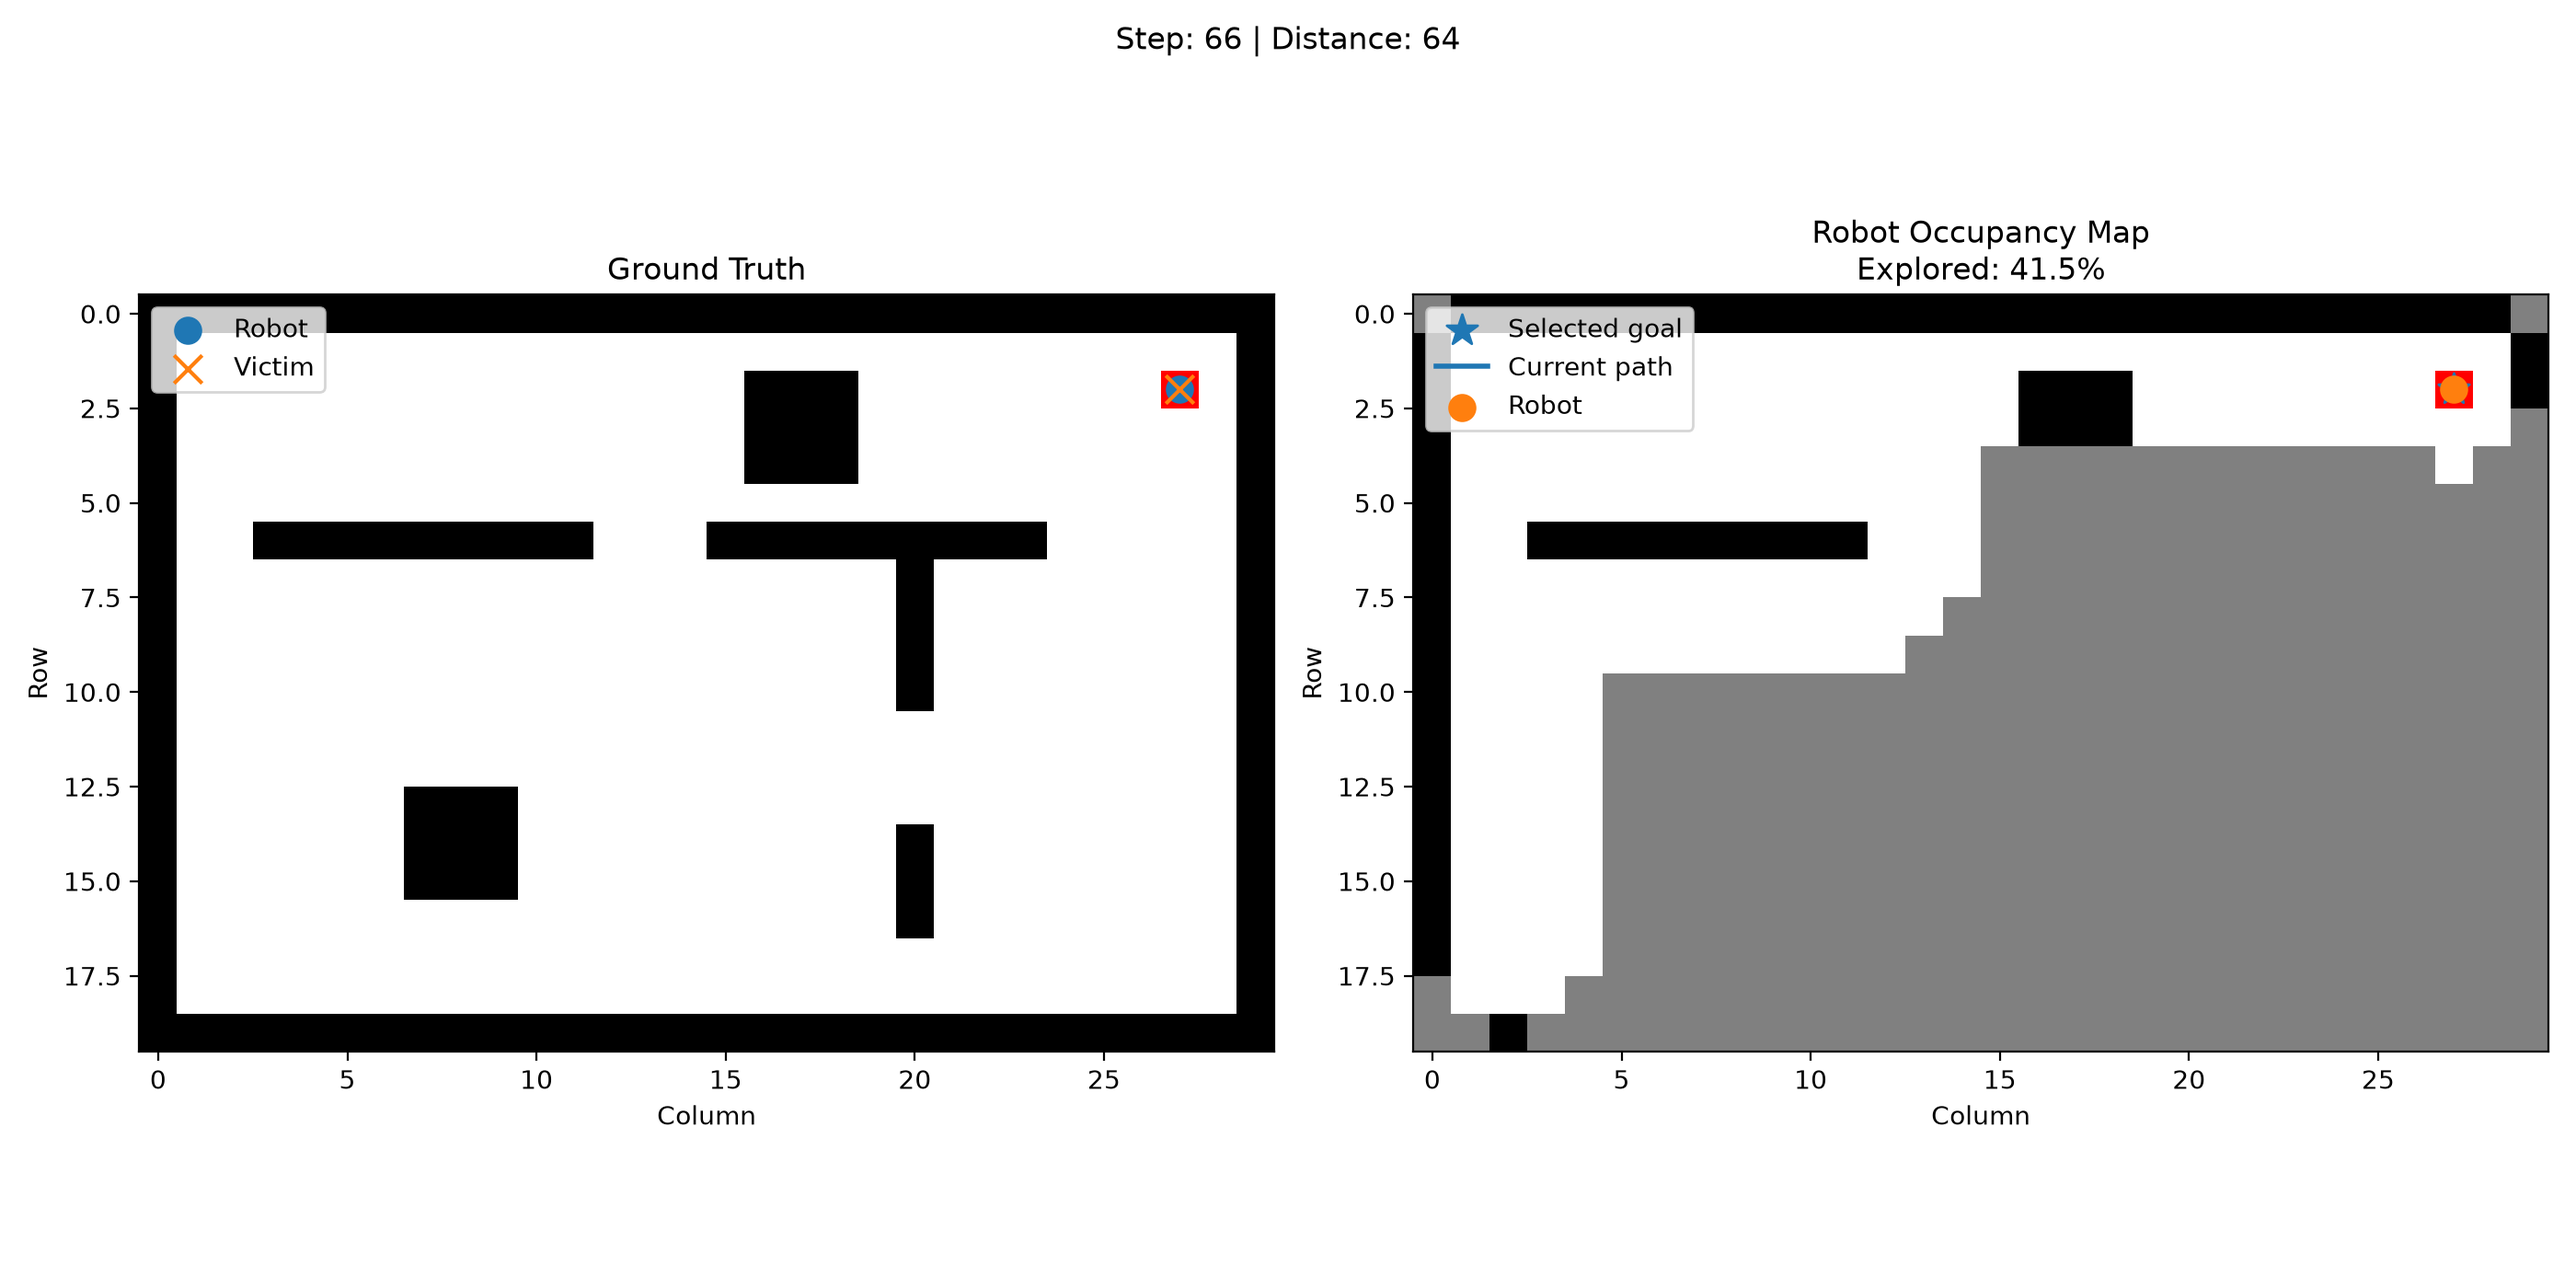
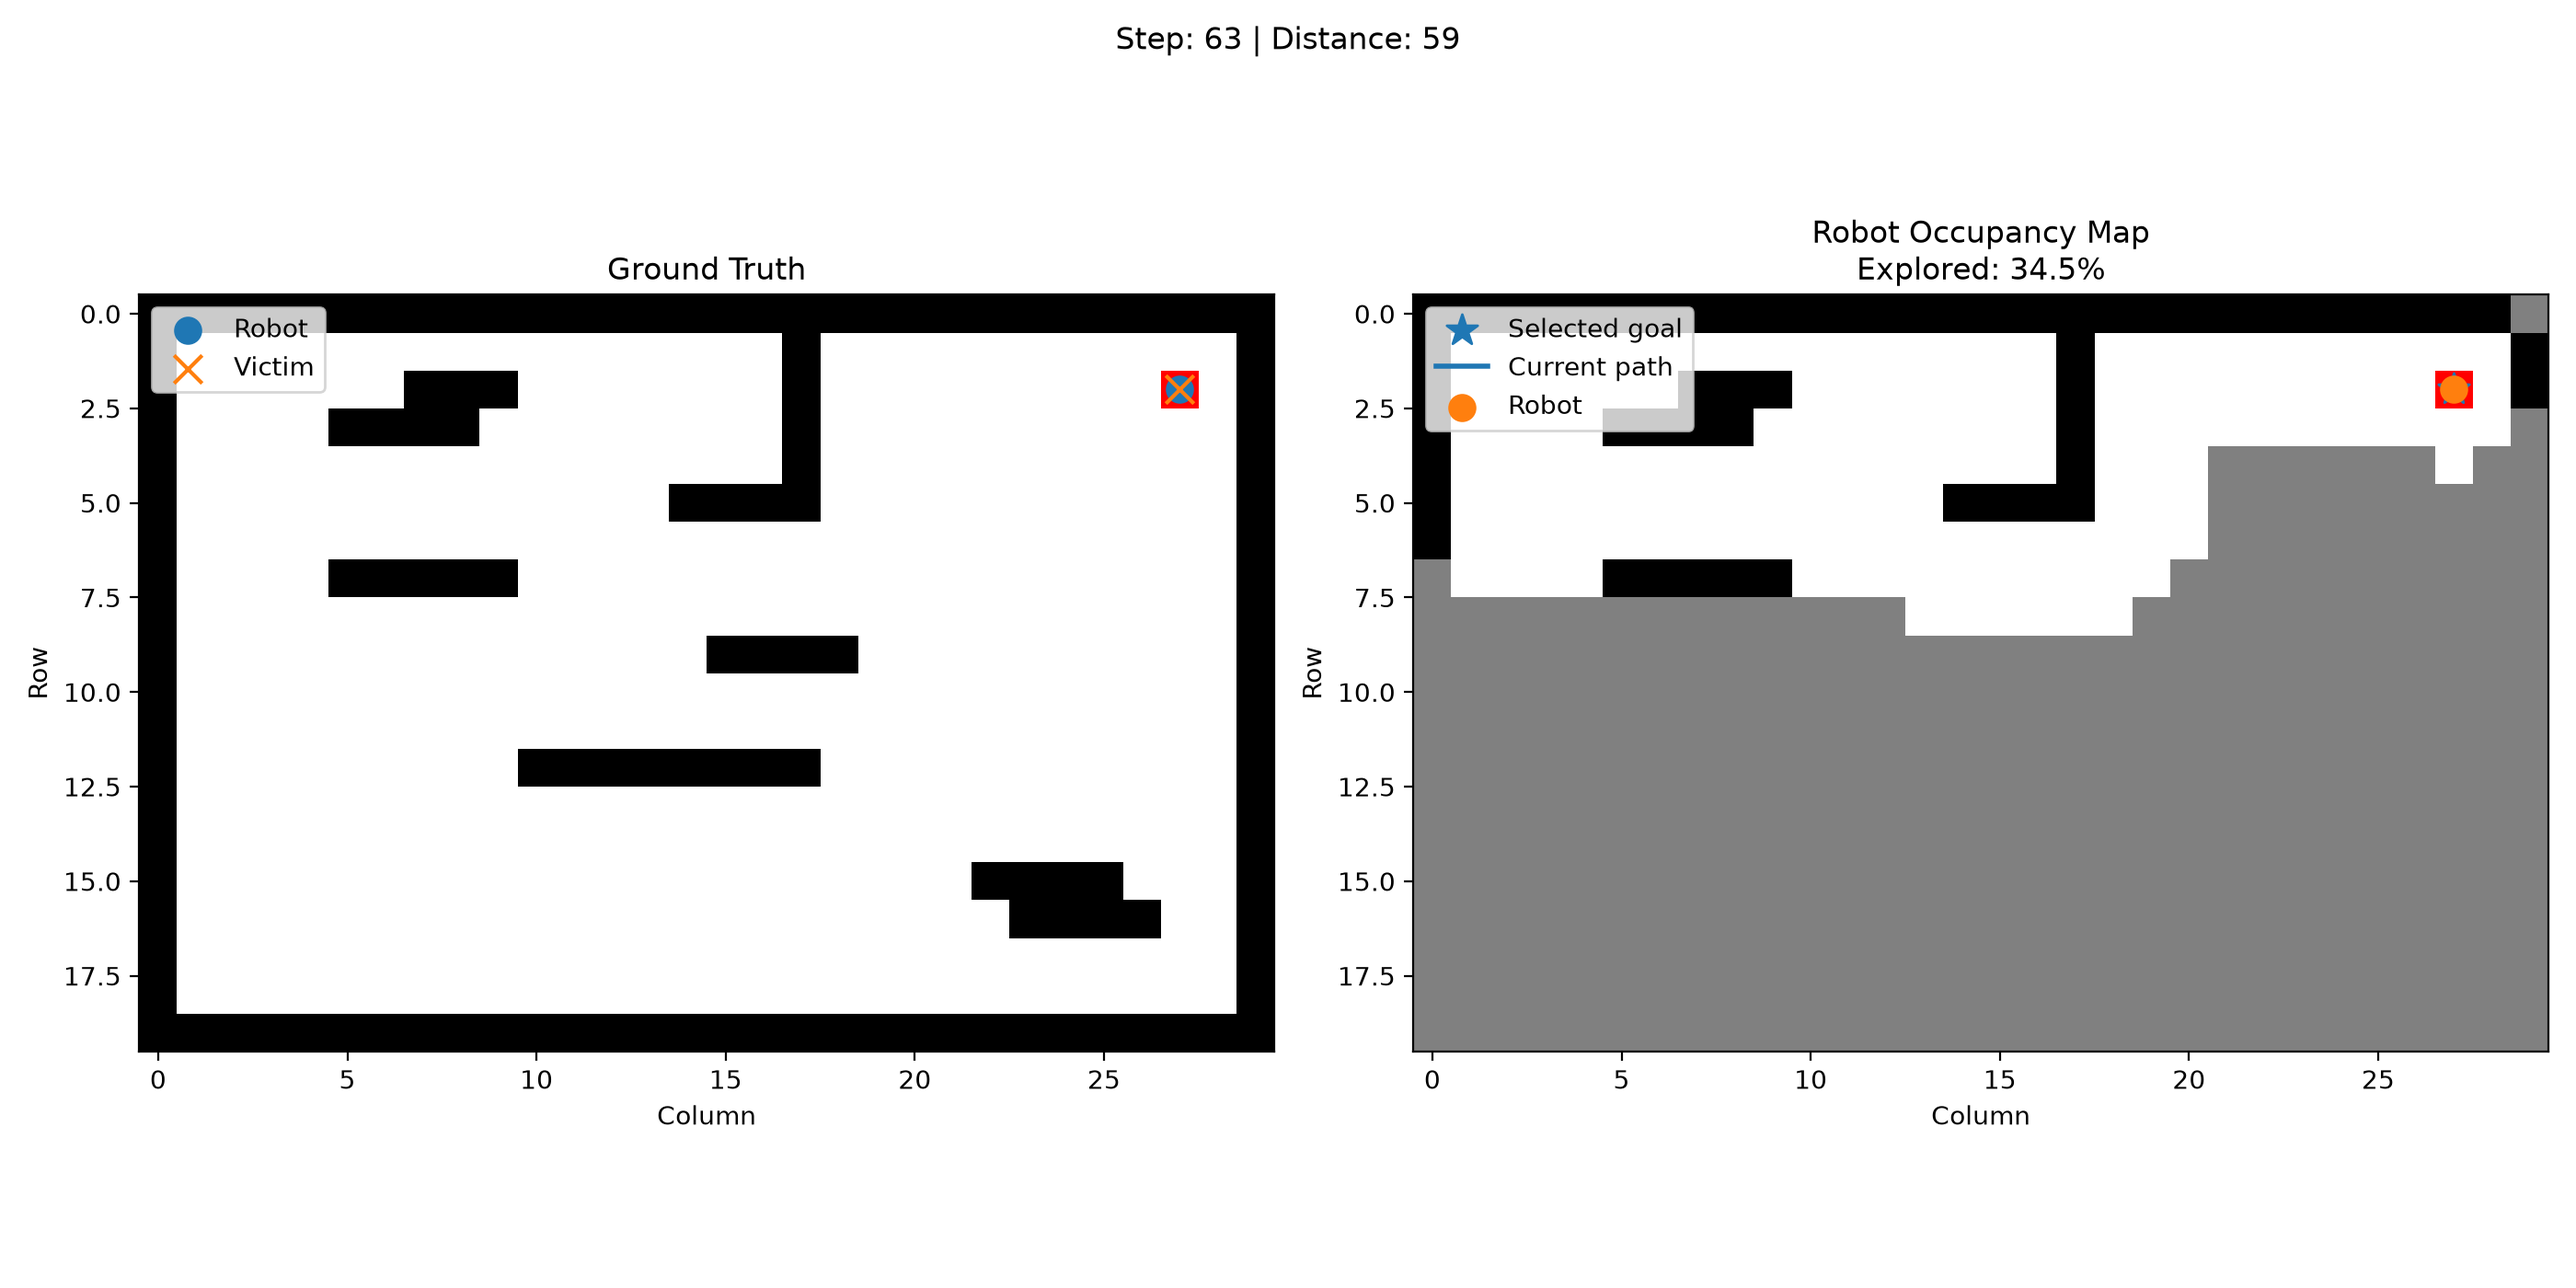
drone deployment viz

diff --git a/drone.py b/drone.py
@@ -1,7 +1,62 @@
 import numpy as np
 import math
 
-from config import DRONE_CRUISE_ALTITUDE, DRONE_VERTICAL_SPEED, DRONE_CLEARANCE, DRONE_SCAN_STEPS
+from config import DRONE_CRUISE_ALTITUDE, DRONE_VERTICAL_SPEED, DRONE_CLEARANCE, DRONE_SCAN_STEPS, FORWARD_CAMERA_RANGE, FORWARD_CAMERA_HALF_ANGLE_DEGREES
+
+def detect_forward_obstacles(environment, drone_position, heading):
+
+    drone_row, drone_col, drone_altitude = drone_position
+    heading_row, heading_col = heading
+
+    heading_length = math.sqrt(heading_row ** 2 + heading_col ** 2)
+
+    if heading_length == 0:
+        return []
+
+    normalized_heading_row = heading_row / heading_length
+    normalized_heading_col = heading_col / heading_length
+
+    detected_obstacles = []
+
+    minimum_row = max(0, int(math.floor(drone_row - FORWARD_CAMERA_RANGE)))
+    maximum_row = min(environment.grid.shape[0], int(math.ceil(drone_row + FORWARD_CAMERA_RANGE + 1)))
+    minimum_col = max(0, int(math.floor(drone_col - FORWARD_CAMERA_RANGE)))
+    maximum_col = min( environment.grid.shape[1], int(math.ceil(drone_col + FORWARD_CAMERA_RANGE + 1)) )
+
+    for row in range(minimum_row, maximum_row):
+        for col in range(minimum_col, maximum_col):
+
+            obstacle_height = environment.height_map[row, col]
+
+            if obstacle_height <= 0:
+                continue
+
+            row_diff = row - drone_row
+            col_diff = col - drone_col
+
+            horizontal_distance = math.sqrt(row_diff ** 2 + col_diff ** 2)
+
+            if horizontal_distance == 0 or horizontal_distance > FORWARD_CAMERA_RANGE:
+                continue
+
+            direction_row = row_diff / horizontal_distance
+            direction_col = col_diff / horizontal_distance
+
+            dot_product = (normalized_heading_row * direction_row + normalized_heading_col * direction_col)
+
+            dot_product = max(-1.0, min(1.0, dot_product))
+
+            angle_degrees = math.degrees(math.acos(dot_product))
+
+            if angle_degrees > FORWARD_CAMERA_HALF_ANGLE_DEGREES:
+                continue
+
+            unsafe_height = obstacle_height + DRONE_CLEARANCE
+
+            if unsafe_height >= drone_altitude:
+                detected_obstacles.append((row, col))
+
+    return detected_obstacles
 
 class Drone:
 
@@ -17,6 +72,9 @@ class Drone:
         self.distance_traveled = 0.0
         self.scan_steps_remaining = 0
 
+        self.heading = (0, 1)
+        self.forward_obstacles = []
+
     def deploy(self, robot_position, target):
         if self.active or self.has_been_used:
             return False
@@ -30,6 +88,9 @@ class Drone:
         self.target = target
         self.state = "takeoff"
         self.active = True
+
+        self.heading = (0, 1)
+        self.forward_obstacles = []
 
         print("Drone deployed toward: ", target)
 
@@ -76,6 +137,14 @@ class Drone:
                 self.state = "scanning"
                 self.scan_steps_remaining = DRONE_SCAN_STEPS
                 return True
+
+            row_change = new_row - current_row
+            col_change = new_col - current_col
+
+            if row_change != 0 or col_change != 0:
+                self.heading = (row_change, col_change)
+
+            self.forward_obstacles = detect_forward_obstacles(environment, self.position, self.heading)
 
             obstacle_height = environment.height_map[new_row, new_col]
 

diff --git a/main.py b/main.py
@@ -4,10 +4,7 @@ import matplotlib.pyplot as plt
 import numpy as np
 from matplotlib.colors import ListedColormap
 
-from config import (ROBOT_START,
-                    VICTIM_POSITION,
-                    GRID_HEIGHT,
-                    GRID_WIDTH,
+from config import (MAP_FILE,
                     ROBOT_SENSOR_RANGE,
                     DRONE_SENSOR_RANGE,
                     DRONE_DEPLOY_STEP)
@@ -63,7 +60,7 @@ def visualize(environment, occupancy_map, robot, drone, path, frontiers, selecte
             label=f"Drone z={drone_altitude:.1f}"
         )
 
-    victim_row, victim_col = VICTIM_POSITION
+    victim_row, victim_col = environment.victim_position
     true_world_plot.scatter(
         victim_col,
         victim_row,
@@ -157,9 +154,11 @@ def visualize(environment, occupancy_map, robot, drone, path, frontiers, selecte
 
 
 def main():
-    environment = Environment()
-    occupancy_map = OccupancyMap(GRID_HEIGHT, GRID_WIDTH)
-    robot = GroundRobot(ROBOT_START)
+    environment = Environment(MAP_FILE)
+    grid_height, grid_width = environment.grid.shape
+
+    occupancy_map = OccupancyMap(grid_height, grid_width)
+    robot = GroundRobot(environment.robot_start)
     drone = Drone()
 
     plt.figure(figsize=(14, 7))
@@ -189,11 +188,7 @@ def main():
 
         # ground robot
 
-        occupancy_map.update_from_sensor(
-            environment,
-            robot.position,
-            ROBOT_SENSOR_RANGE
-        )
+        occupancy_map.update_from_sensor(environment, robot.position, ROBOT_SENSOR_RANGE)
 
         known_victim_position = occupancy_map.find_known_victim()
 

diff --git a/config.py b/config.py
@@ -1,7 +1,4 @@
-MAP_FILE = "maps/map_01.txt"
-
-GRID_HEIGHT = 20
-GRID_WIDTH = 30
+MAP_FILE = "maps/map1.txt"
 
 ROBOT_SENSOR_RANGE = 2
 
@@ -10,13 +7,13 @@ FREE = 0
 OBSTACLE = 1
 VICTIM = 2
 
-ROBOT_START = (17, 2)
-VICTIM_POSITION = (2, 27)
-
 DRONE_SENSOR_RANGE = 5
 DRONE_DEPLOY_STEP = 10
 
-DRONE_CRUISE_ALTITUDE = 5.0
+DRONE_CRUISE_ALTITUDE = 2.0
 DRONE_VERTICAL_SPEED = 1.0
 DRONE_CLEARANCE = 1.0
 DRONE_SCAN_STEPS = 2
+
+FORWARD_CAMERA_RANGE = 4
+FORWARD_CAMERA_HALF_ANGLE_DEGREES = 30.0

diff --git a/mapping.py b/mapping.py
@@ -22,9 +22,8 @@ class OccupancyMap:
 
                 row = robot_row + row_offset
                 col = robot_col + col_offset
-                position = (row, col)
 
-                if not environment.is_in_bounds(position):
+                if not environment.is_in_bounds(row, col):
                     continue
 
                 # circular sensing area
